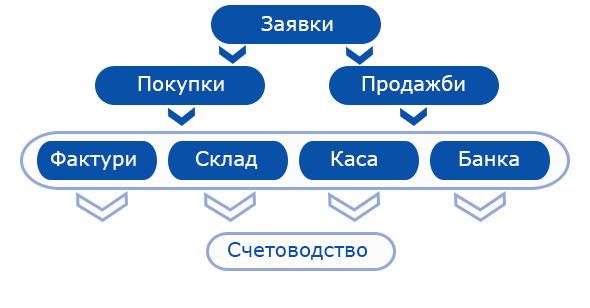
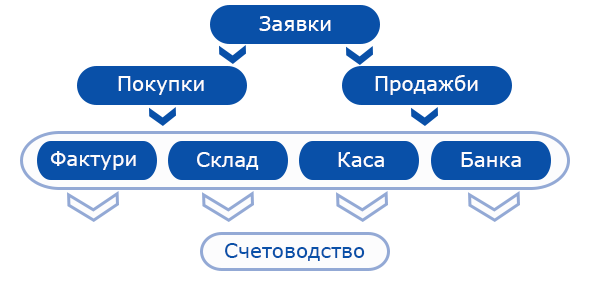
Редактиране на изображение в index на Документи и процеси

diff --git a/guide/erp/002-docs/000-index.md b/guide/erp/002-docs/000-index.md
@@ -3,9 +3,6 @@
 ```
 # Документи и процеси
 
-
-![](901-index.png){ class=align-center w=15cm }
-
 В този раздел се разглеждат основни процеси и функционалности, свързани с документите в системата.  
 Темите са структурирани в следната последователност:  
 
@@ -17,6 +14,10 @@
 Разделът представя инструкции за експорти и обработка на документи, свързани с организация на финансово-счетоводната отчетност
  - [ТРЗ](004-payroll-documents/000-index.md)  
 В този раздел са разгледани теми, свързани с управление на трудовите отношения.  
+
+Документооборотът в системата е организиран според логиката на бизнес процесите. Автоматично се изграждат и поддържат стриктни взаимовръзки между документите. По този начин системата гарантира последователност и проследимост на операциите.  
+
+![](901-index.png){ class=align-center w=15cm }
 
  ```{toctree}
 :maxdepth: 1
